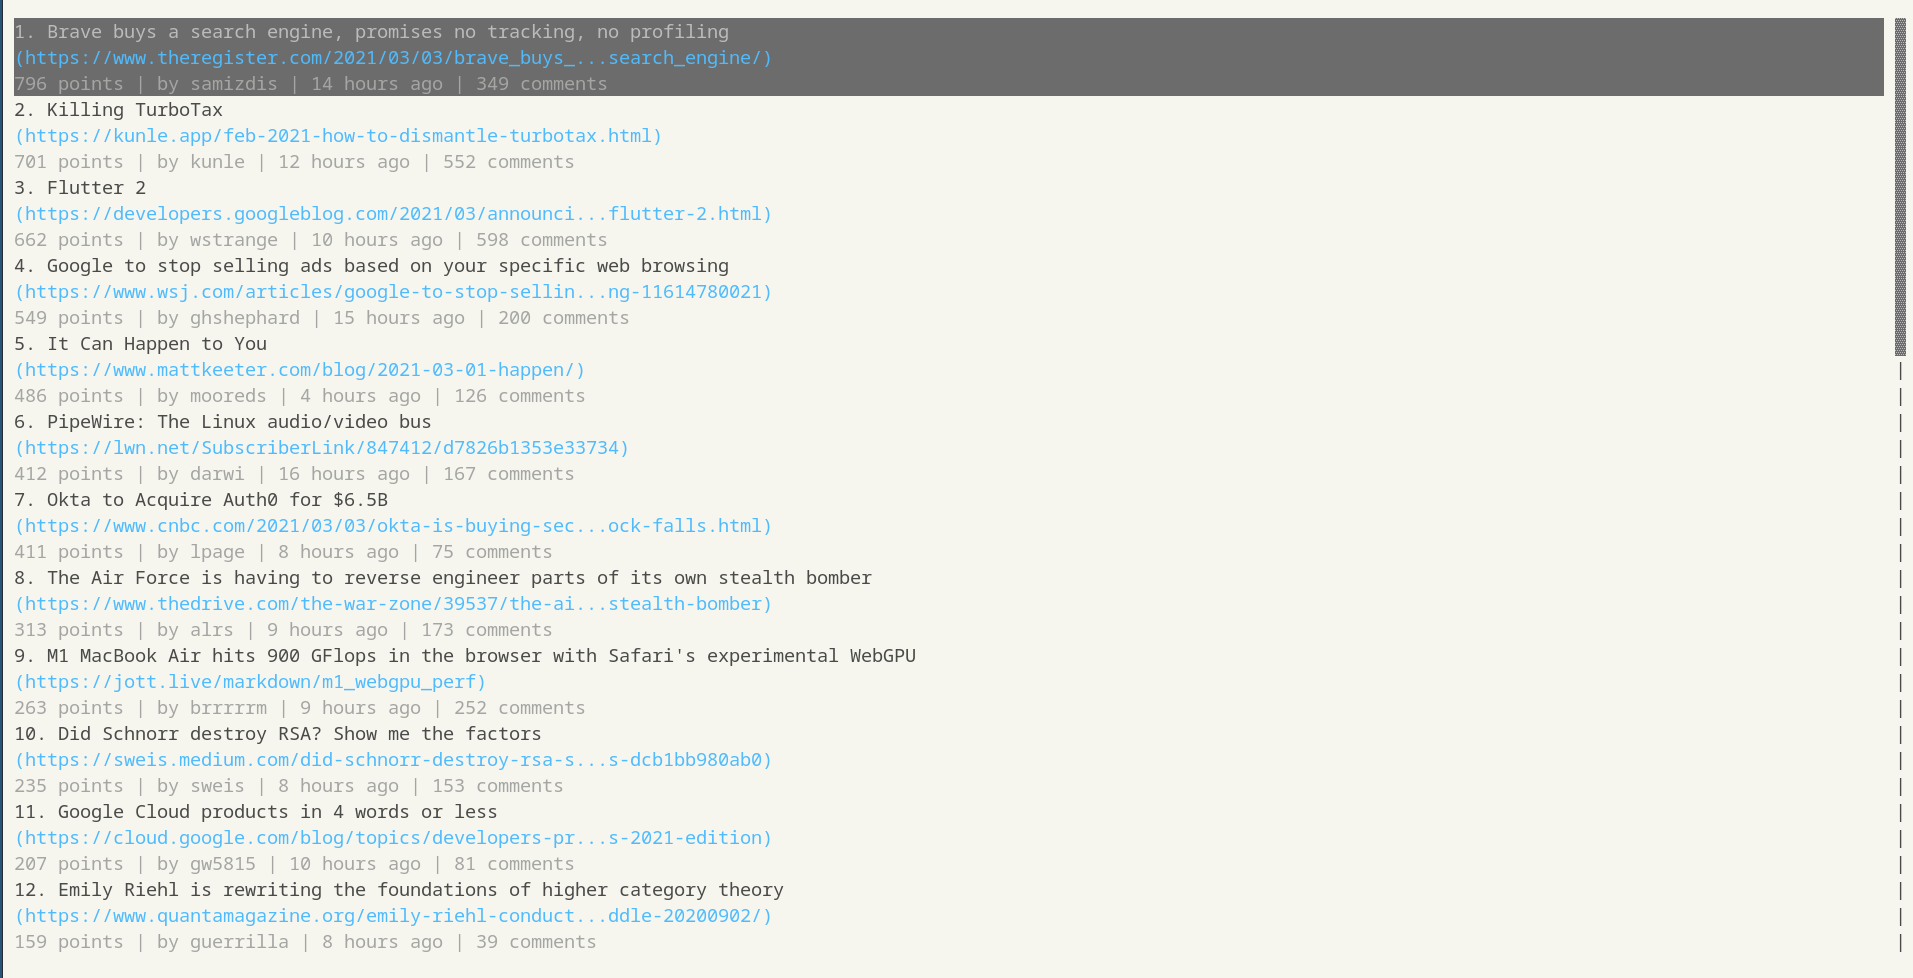
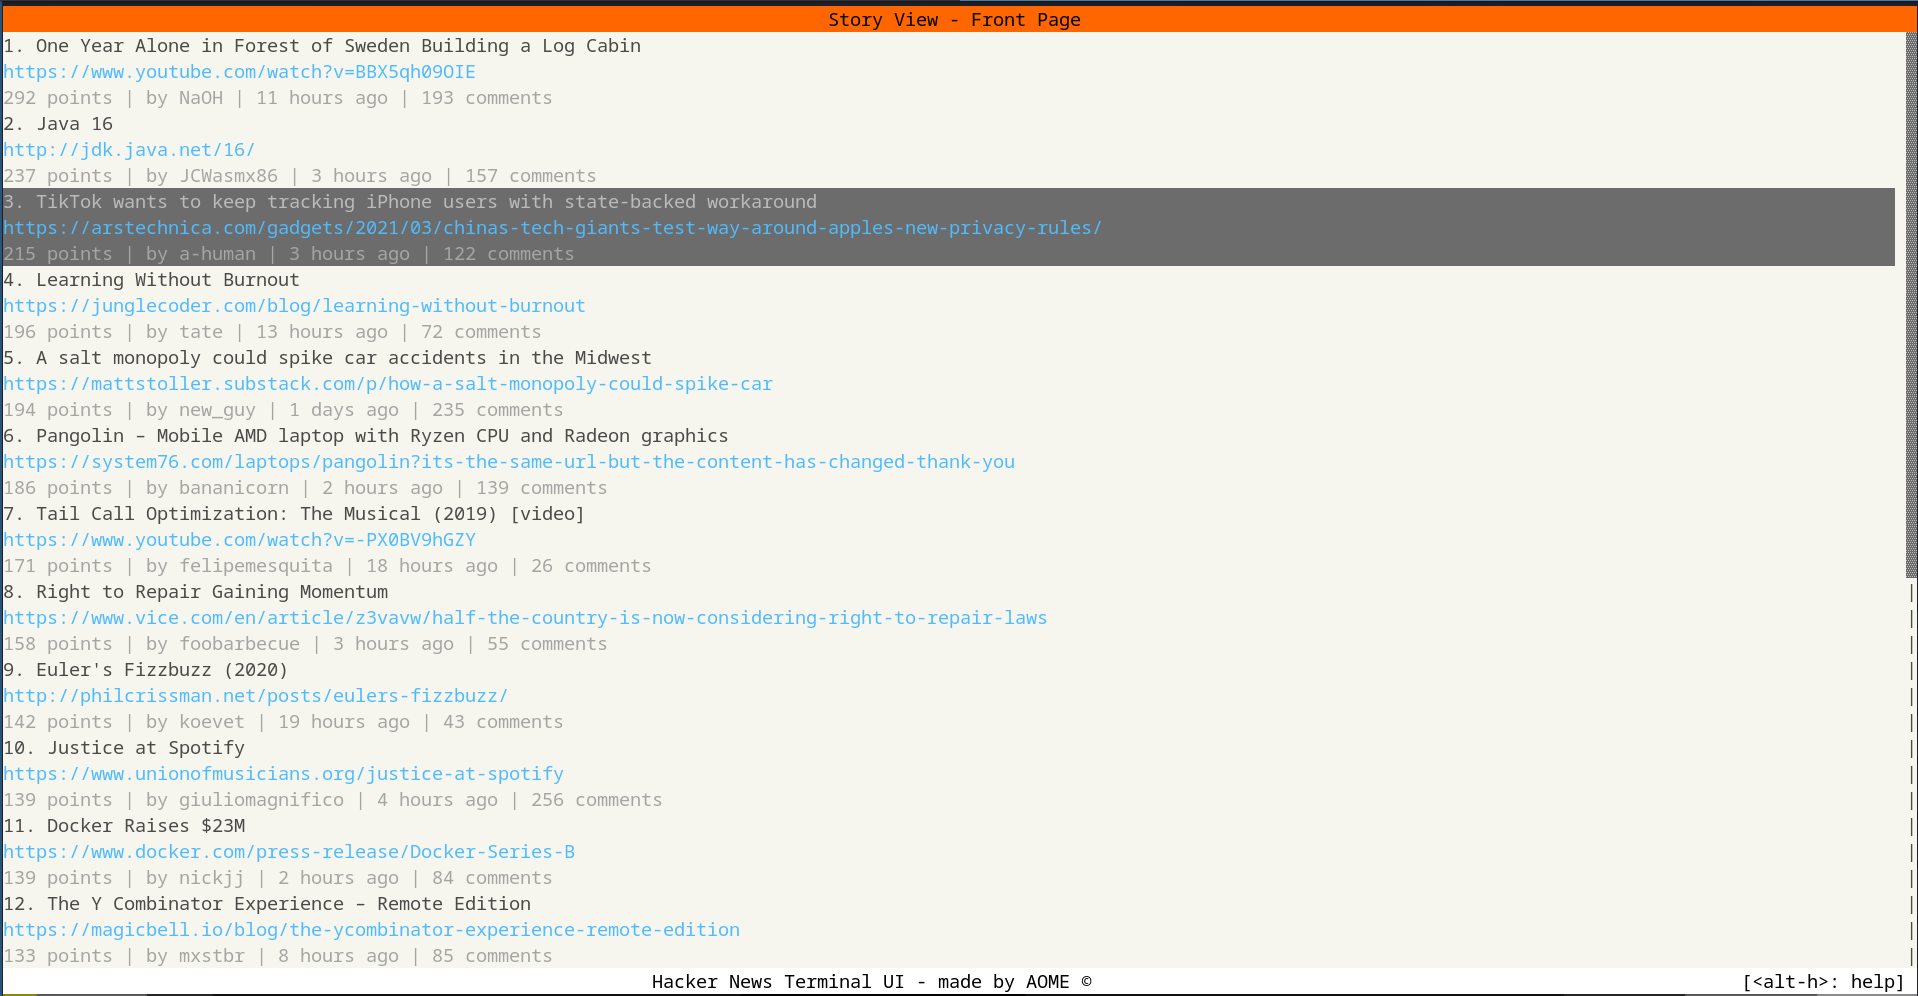
prepare for v0.2!

Changed region(s): [[0.0, 0.0, 1.0, 1.0]]

diff --git a/src/hn_client.rs b/src/hn_client.rs
@@ -74,7 +74,9 @@ struct StoryResponse {
 /// CommentResponse represents the story data received from HN_ALGOLIA APIs
 struct CommentResponse {
     id: u32,
+    #[serde(deserialize_with = "parse_null_default")]
     parent_id: u32,
+    #[serde(deserialize_with = "parse_null_default")]
     story_id: u32,
 
     #[serde(default)]

diff --git a/README.md b/README.md
@@ -1,10 +1,10 @@
 # hackernews-TUI
 `hackernews_tui` is a Terminal UI to browse Hacker News written in Rust.
 
-The application consists of the following views:
-- `Story View` displaying a list of stories in front page of Hacker News.
+The application mainly consists of the following views:
+- `Story View - Front Page` displaying a list of stories in front page of Hacker News.
 - `Comment View` displaying a list of comments in a story.
-- `Search View` displaying a list of stories satisfying certain conditions.
+- `Story Search View` displaying a search bar and a list of stories matching the search query.
 
 ## Installation
 ### Using cargo
@@ -14,15 +14,18 @@ Run `yay -S hackernews_tui` to install the application as an AUR package.
 
 ## Examples
 
-Story View:
-![Example of a Story View](https://raw.githubusercontent.com/aome510/hackernews-TUI/main/examples/assets/story_view.png)
+Story View - Front Page:
+![Example of a Story View - Front Page](https://raw.githubusercontent.com/aome510/hackernews-TUI/main/examples/assets/story_view.png)
 
 Comment View:
 ![Example of a Comment View](https://raw.githubusercontent.com/aome510/hackernews-TUI/main/examples/assets/comment_view.png)
 
+Story Search View
+![Example of a Story Search View](https://raw.githubusercontent.com/aome510/hackernews-TUI/main/examples/assets/story_search_view.png)
+
 ## Documentation
 ### Keyboard shortcuts
-In `Story View`, `Comment View` or `Search View`, press `<alt-h>` to see a list of supported keyboard shortcuts and their functionalities.
+In each `View`, press `<alt-h>` to see a list of supported keyboard shortcuts and their functionalities.
 
 ## Roadmap/TODO List
 TBA...
